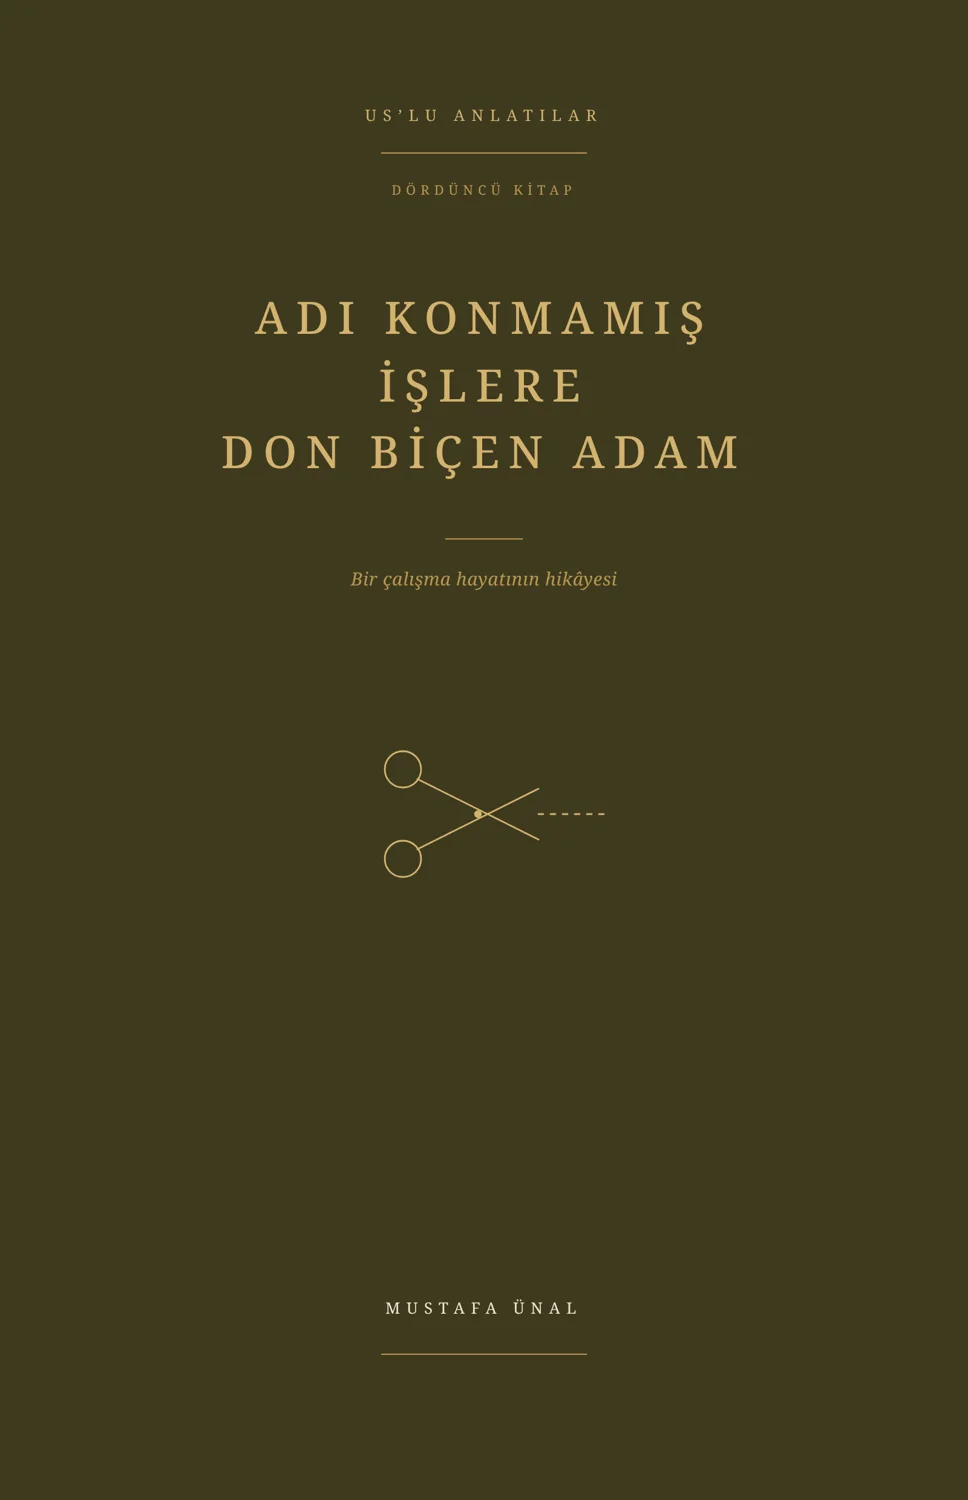
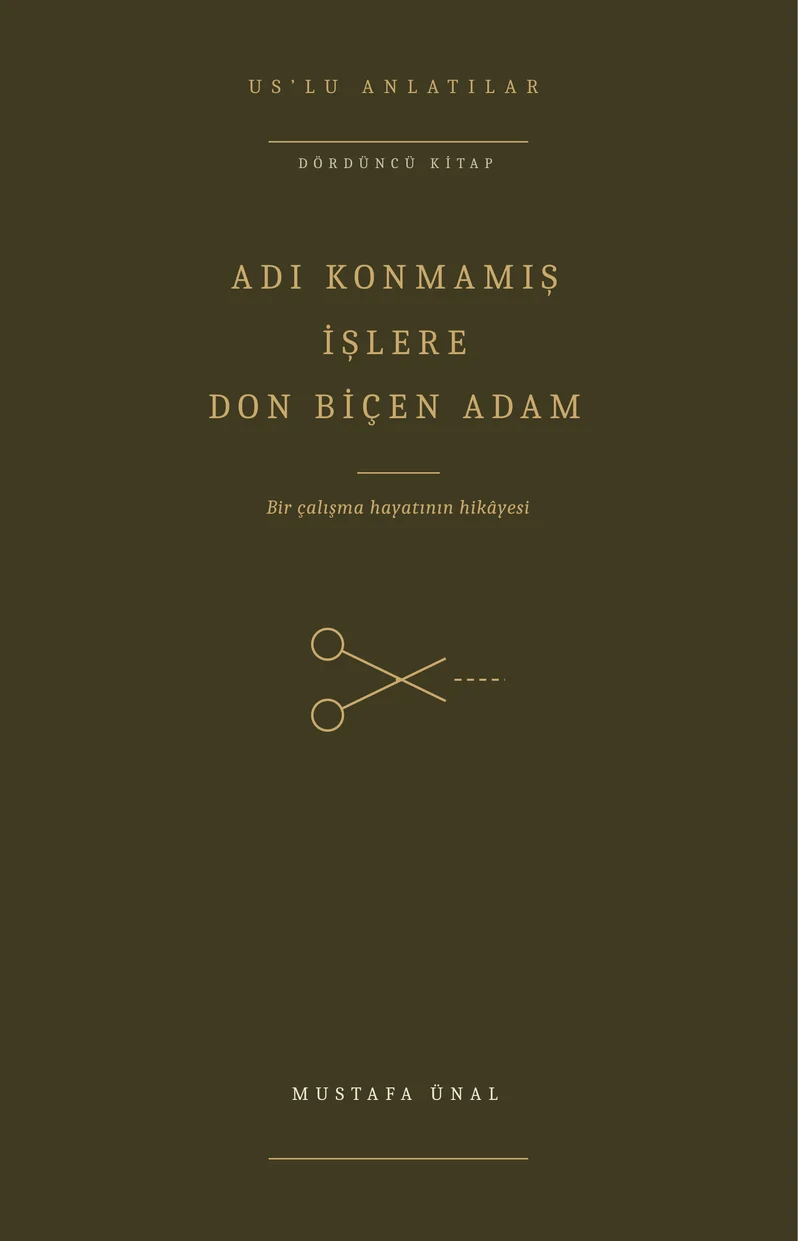
US'lu Anlatılar altı kitap: Gönül Dostu V, US'lu Dimağ VI; yeni kapaklar
Claude-Session: https://claude.ai/code/session_016JvfJXDgjC8Qsf781nDcrk

diff --git a/assets/site.css b/assets/site.css
@@ -551,3 +551,8 @@ body.has-gecis { padding-bottom: 4.5rem; }
 .yan-ok { background: #f4efe4; color: #7a5520; box-shadow: 0 0 0 1px #cfc3aa, 0 8px 20px -10px rgba(0,0,0,.6); }
 .kaydir-ipucu { color: #6b675e; border-color: #cfc3aa; }
 .kaydir-ipucu { border: 1px dashed #cfc3aa; }
+
+/* seri: altı kitap */
+.bk-series ol { grid-template-columns: repeat(6, minmax(0, 1fr)); }
+@media (max-width: 700px) { .bk-series ol { grid-template-columns: repeat(3, minmax(0, 1fr)); } }
+@media (min-width: 1100px) { .shelf.is-series { grid-template-columns: repeat(6, 1fr); } }

diff --git a/build.py b/build.py
@@ -18,7 +18,7 @@ ORIGIN = "https://mustafaunal.tr"
 # SITE_MODE=canli: mustafaunal.tr için (arama motorlarına açık, test notu yok). Varsayılan: test.
 CANLI = os.environ.get("SITE_MODE", "test") == "canli"
 READER = "https://acipayam.gunerunal.com.tr"   # kitapların okunduğu site
-ASSET_V = "13"
+ASSET_V = "14"
 E = lambda s: html.escape(str(s or ""), quote=True)  # noqa: E731
 
 SERIES = [
@@ -31,12 +31,12 @@ SERIES = [
     {"slug": "adi-konmamis-islere-don-bicen-adam", "no": "IV", "tag": "Hazırlanıyor", "soon": True,
      "title": "Adı Konmamış İşlere Don Biçen Adam", "path": "/kitaplar/adi-konmamis-islere-don-bicen-adam/",
      "line": "GAMEKS, işler, fikirler ve internet. 2027’de yayımlanması planlanıyor."},
-    {"slug": "uslu-dimag", "no": "V", "tag": "Final · Hazırlanıyor", "soon": True, "title": "US’lu Dimağ", "path": "/kitaplar/uslu-dimag/",
+    {"slug": "gonul-dostu", "no": "V", "tag": "Hazırlanıyor", "soon": True, "title": "Gönül Dostu", "path": "/kitaplar/gonul-dostu/",
+     "line": "Sabit Kızılhan ile yol yürümek: 2005–2026 arasından dostluğun ve hak mücadelesinin tanıklığı. 2027’de yayımlanması planlanıyor."},
+    {"slug": "uslu-dimag", "no": "VI", "tag": "Final · Hazırlanıyor", "soon": True, "title": "US’lu Dimağ", "path": "/kitaplar/uslu-dimag/",
      "line": "Doksan öğretide ölçüsü oturmuş bir zihin. 2027’de yayımlanması planlanıyor."},
 ]
 OTHERS = [
-    {"slug": "gonul-dostu", "title": "Gönül Dostu", "role": "Yazar · Hazırlanıyor", "soon": True, "path": "/kitaplar/gonul-dostu/",
-     "line": "Sabit Kızılhan ile yol yürümek: 2005–2026 arasından dostluğun ve hak mücadelesinin tanıklığı. 2027’de yayımlanması planlanıyor."},
     {"slug": "bana-koyunu-anlat", "title": "Bana Köyünü Anlat", "role": "Editör · Sabit Kızılhan’ın derlemesi", "path": "/kitaplar/bana-koyunu-anlat/",
      "line": "Acıpayam köylerinin anlatıcılarıyla hazırlanan sözlü tarih çalışması."},
     {"slug": "kelekcide-yasamak", "title": "Kelekçi’de Yaşamak", "role": "Yayına hazırlayan · Dr. Oktar Öner’in kitabı",
@@ -183,8 +183,8 @@ def build_home():
 
 <section class="salon" id="kitaplar" aria-labelledby="kitaplar-baslik">
   {salon_head(1, "kitaplar", "Kitaplar", "Hepsi ücretsiz; internette okunur, PDF olarak indirilir. Bir kitaba dokunun, sayfası açılsın.")}
-  <h3 class="row-title">US’lu Anlatılar <span>Beş kitaplık seri</span></h3>
-  <ol class="shelf">{series}</ol>
+  <h3 class="row-title">US’lu Anlatılar <span>Altı kitaplık seri</span></h3>
+  <ol class="shelf is-series">{series}</ol>
   <h3 class="row-title">Yazarlık, editörlük, yayına hazırlık</h3>
   <ul class="shelf">{others}</ul>
 </section>

diff --git a/books.py b/books.py
@@ -69,11 +69,11 @@ BOOKS = [
     {"slug": "adi-konmamis-islere-don-bicen-adam", "title": "Adı Konmamış İşlere Don Biçen Adam", "author": "Mustafa Ünal",
      "seri": "Kitap IV · Hazırlanıyor", "soon": True, "status": SOON_SRC["status"],
      "intro": SOON_SRC["tagline"] + " " + " ".join(SOON_SRC["paragraphs"])},
-    {"slug": "uslu-dimag", "title": "US’lu Dimağ", "author": "Mustafa Ünal", "seri": "Kitap V · Final · Hazırlanıyor",
+    {"slug": "gonul-dostu", "title": "Gönül Dostu", "subtitle": "Sabit Kızılhan ile Yol Yürümek", "author": "Mustafa Ünal",
+     "seri": "Kitap V · Hazırlanıyor", "soon": True, "status": "2027’de yayımlanması planlanıyor", "intro": next(u for u in HOME["upcoming"] if u["title"].startswith("Gönül"))["paragraphs"][0]},
+    {"slug": "uslu-dimag", "title": "US’lu Dimağ", "author": "Mustafa Ünal", "seri": "Kitap VI · Final · Hazırlanıyor",
      "soon": True, "status": "2027’de yayımlanması planlanıyor",
      "intro": "Bu kitap öğretmek ya da ikna etmek için yazılmadı. Bir insanın hayatın içinde düşe kalka, zamanla oluşmuş us izlerinin kaydı; davranıştan zamana, güvenden vedaya doksan kısa öğreti."},
-    {"slug": "gonul-dostu", "title": "Gönül Dostu", "subtitle": "Sabit Kızılhan ile Yol Yürümek", "author": "Mustafa Ünal",
-     "role": "Bağımsız eser · Hazırlanıyor", "soon": True, "status": "2027’de yayımlanması planlanıyor", "intro": next(u for u in HOME["upcoming"] if u["title"].startswith("Gönül"))["paragraphs"][0]},
     {"slug": "bana-koyunu-anlat", "title": "Bana Köyünü Anlat", "author": "Sabit Kızılhan", "editor": "Mustafa Ünal",
      "role": "Sözlü tarih · Editörlük", "intro": SABIT["lead"], "audio": SABIT["audio_full"]},
     {"slug": "kelekcide-yasamak", "title": "Kelekçi’de Yaşamak", "author": "Dr. Oktar Öner", "editor": "Mustafa Ünal",
@@ -158,7 +158,7 @@ def series_strip(book):
         f'<li><a href="{b["base"]}"{" aria-current=" + chr(34) + "page" + chr(34) if b is book else ""}>'
         f'<img src="{b["cover"]}" alt="" width="400" height="620" loading="lazy"><span class="s-no">{E(b["seri"])}</span>'
         f'<span class="s-t">{E(b["title"])}</span></a></li>' for b in SERIES)
-    return (f'<section class="bk-series"><h2>US’lu Anlatılar</h2><p>Beş kitaplık seri. Her kitap tek başına da okunabilir.</p>'
+    return (f'<section class="bk-series"><h2>US’lu Anlatılar</h2><p>Altı kitaplık seri. Her kitap tek başına da okunabilir.</p>'
             f'<ol>{li}</ol></section>')
 
 
